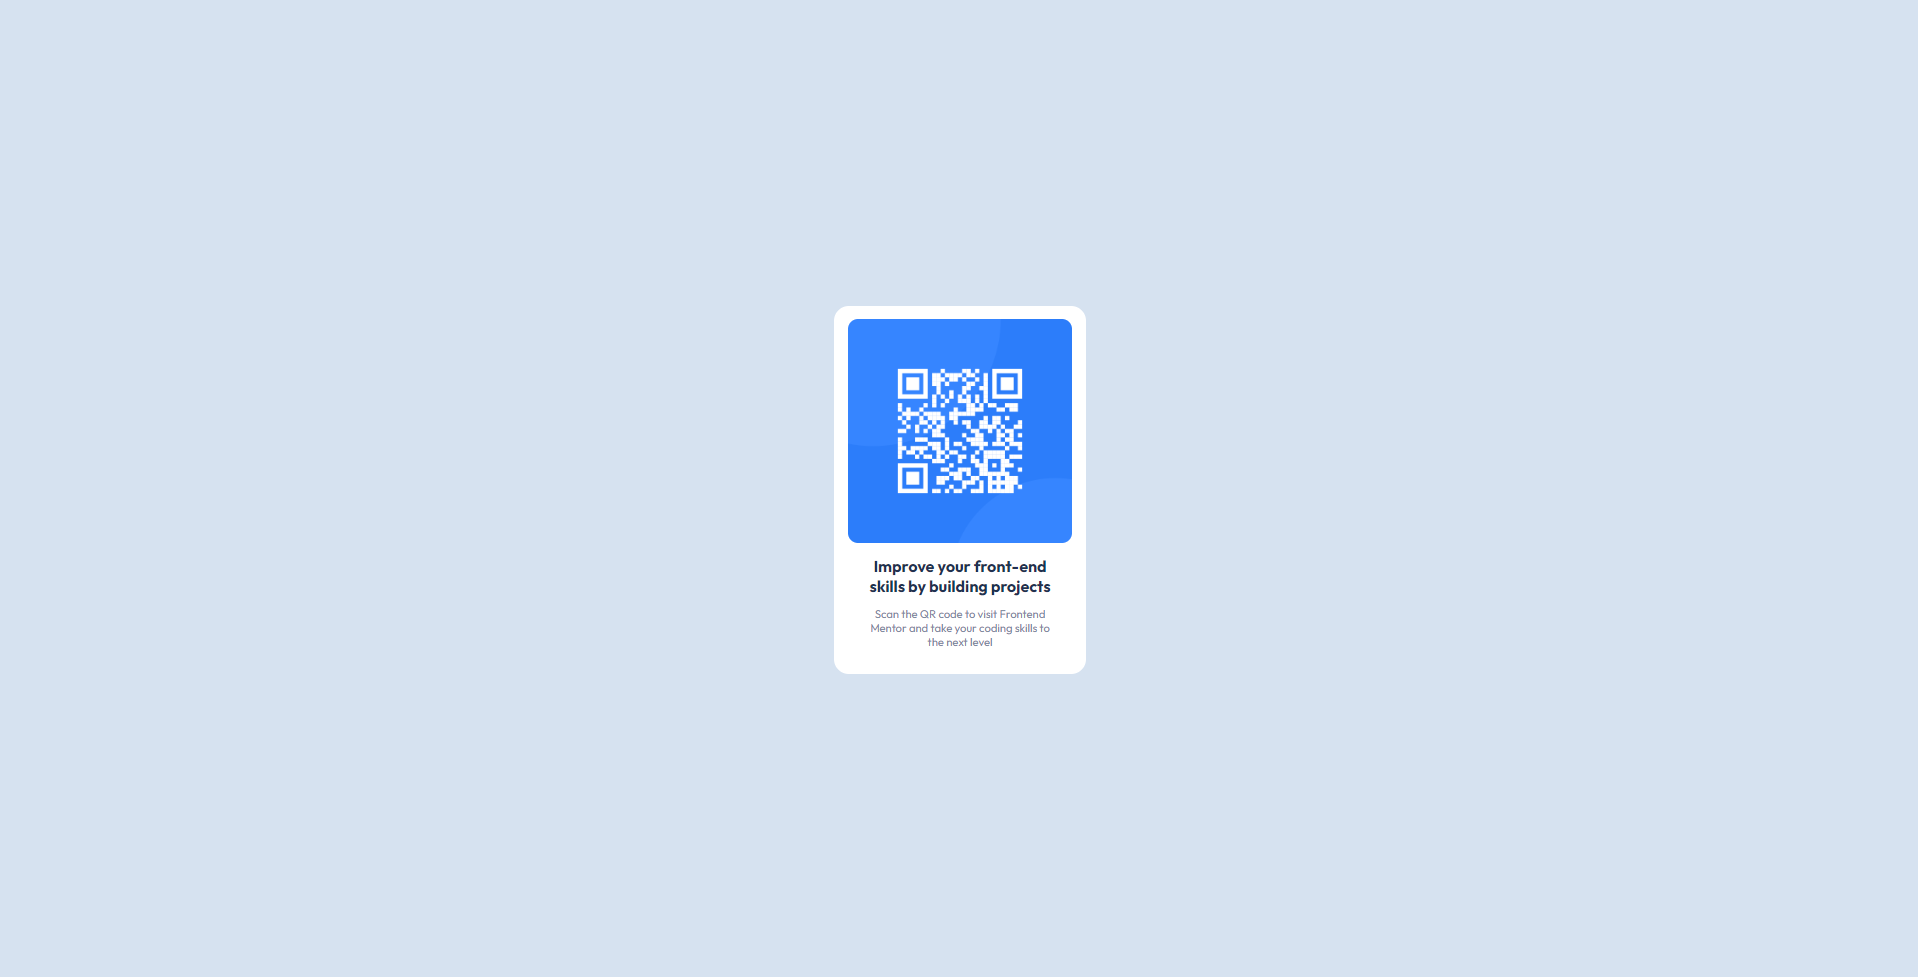
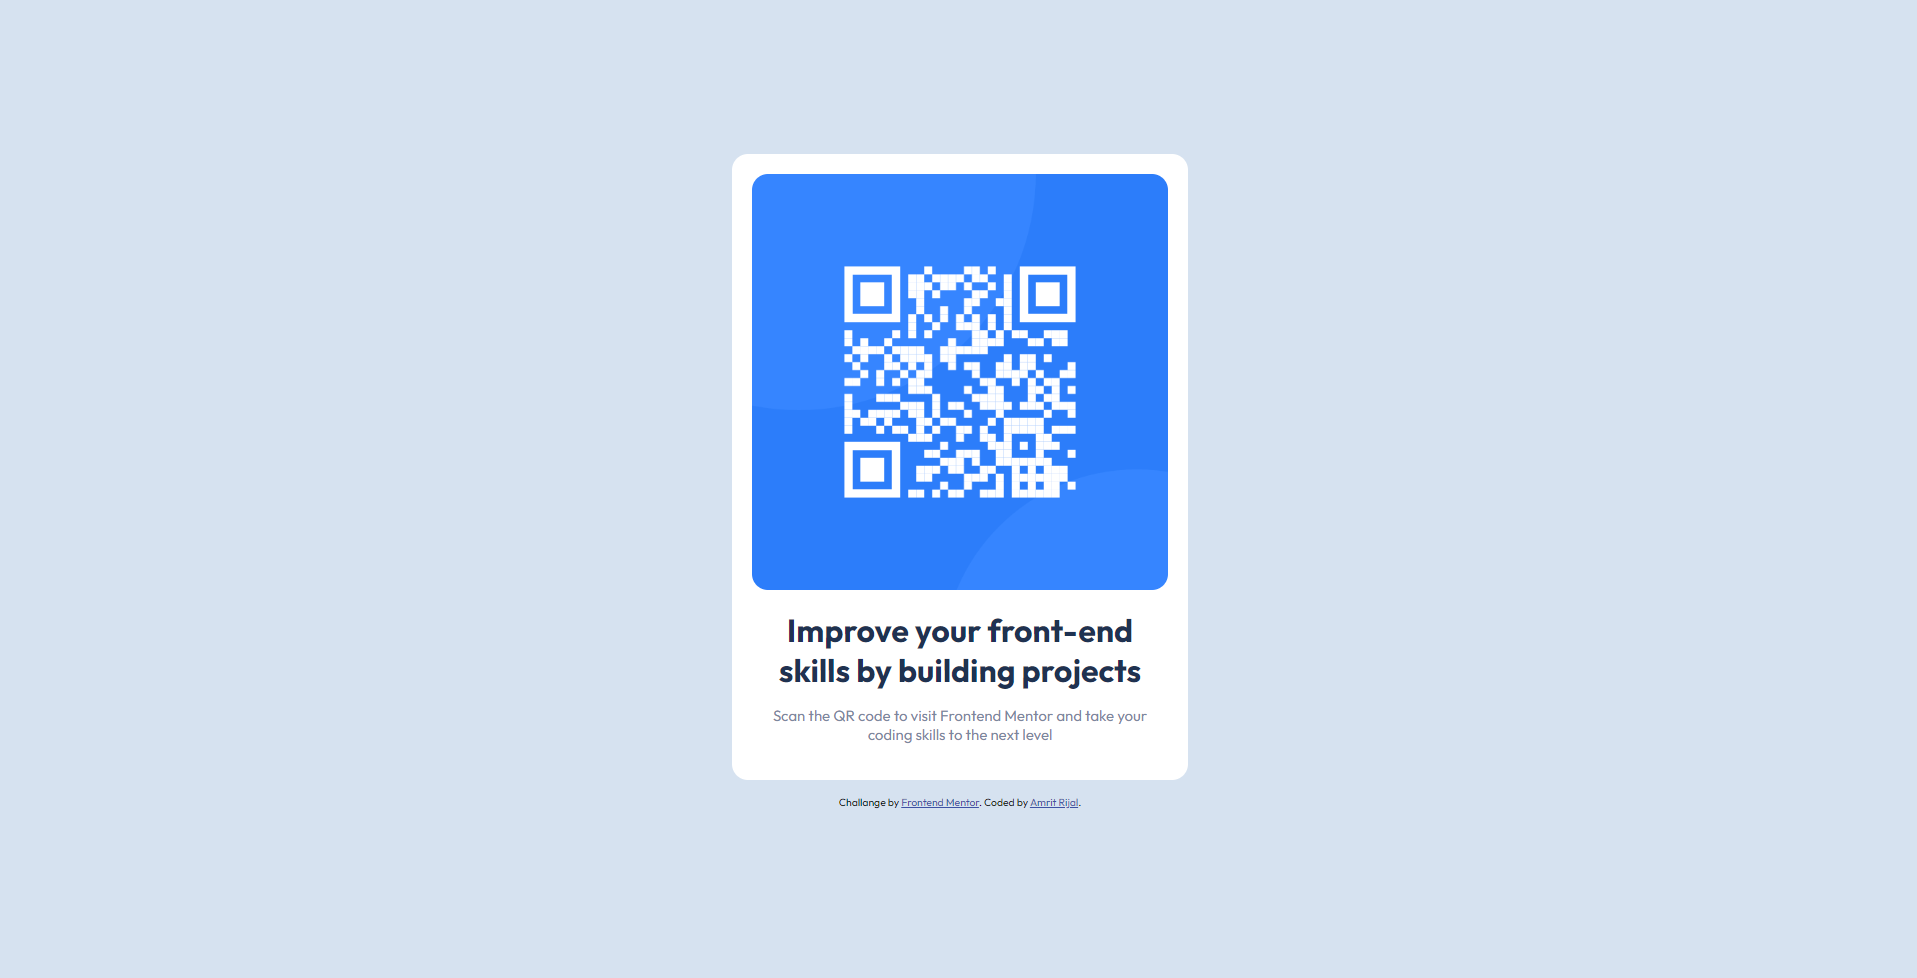
Updated in new branch
Made it more like the screenshot

Changed region(s): [[0.3693, 0.1535, 0.6463, 0.8291]]

diff --git a/index.html b/index.html
@@ -9,70 +9,19 @@
 
   <title>Frontend Mentor | QR code component</title>
 
-  <style>
-    @import url('https://fonts.googleapis.com/css2?family=Outfit:wght@400;700&display=swap');
-
-    body {
-      margin: 0;
-      width: 12.5rem;
-      display: flex;
-      align-items: center;
-      justify-content: center;
-      font-family: 'Outfit';
-      min-width:  100vw;
-      min-height: 100vh;
-      background-color: hsl(212, 45%, 89%);
-    }
-
-    #main {
-      width: 15.7rem;
-      height: 23rem;
-      order: 1;
-      display: flex;
-      flex-direction: column;
-      justify-content: space-evenly;
-      align-items: center;
-      align-self: center;
-      background-color: hsl(0, 0%, 100%);
-      border-radius: 0.925rem;
-    }
-
-    img {
-      height: 14rem;
-      width: 14rem;
-      border-radius: 0.625rem;
-    }
-
-    .article {
-      padding: 0 1.7rem;
-    }
-
-    .h1 {
-      font-size: 1rem;
-      font-weight: 700;
-      text-align: center;
-      margin: 0;
-      color: hsl(218, 44%, 22%);
-    }
-
-    .p2 {
-      font-size: 0.7rem;
-      font-weight: 400;
-      text-align: center;
-      color: hsl(220, 15%, 55%);
-    }
-
-  </style>
+  <link rel="stylesheet" href="style.css">
 </head>
 
 <body>
   <main id="main">
     <img src="images/image-qr-code.png" alt="qr-code">
-    <article class="article">
-      <h1 class="h1">Improve your front-end skills by building projects</h1>
-      <p class="p2">Scan the QR code to visit Frontend Mentor and take your coding skills to the next level</p>
-    </article>
+    <h1>Improve your front-end skills by building projects </h1>
+    <p>Scan the QR code to visit Frontend Mentor and take your coding skills to the next level</p>
   </main>
+  <div class="attribution">
+    Challange by <a href="https://www.frontendmentor.io?refchallange" target="_blank">Frontend Mentor</a>. Coded by <a
+      href="https://github.com/AmritRijal-cpp">Amrit Rijal</a>.
+  </div>
 </body>
 
 </html>

diff --git a/style.css b/style.css
@@ -1,0 +1,56 @@
+@import url('https://fonts.googleapis.com/css2?family=Outfit:wght@400;700&display=swap');
+
+img {
+    width: 100%;
+    border-radius: 1rem;
+}
+
+body {
+    font-family: "Outfit", sans-serif;
+    display: flex;
+    flex-direction: column;
+    justify-content: center;
+    align-items: center;
+    min-height: 100vh;
+    background-color: hsl(212, 45%, 89%);
+    margin: 0;
+}
+
+#main {
+    background-color: hsl(0, 0%, 100%);
+    padding: 1.25rem;
+    border-radius: 1rem;
+    width: 26rem;
+}
+
+#main h1 {
+    text-align: center;
+    color: hsl(218, 44%, 22%);
+    margin: 1rem;
+}
+
+#main p {
+    font-size: 0.938rem;
+    text-align: center;
+    color: hsl(220, 15%, 55%);
+    margin: 1rem;
+}
+
+@media (max-width: 31.25rem) {
+    #main {
+        width: 17rem;
+    }
+    h1 {
+        font-size: 1.3rem;
+    }
+}
+
+.attribution {
+    font-size: 0.65rem;
+    text-align: center;
+    padding: 1rem;
+}
+
+.attribution a {
+    color: hsl(228, 45%, 44%);
+}
